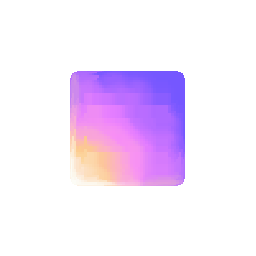
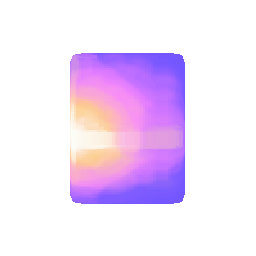
new_from_angle_and_plane bugaa vielä.

Changed region(s): [[0.25, 0.1875, 0.75, 0.8125]]

diff --git a/src/bin/rasterize.rs b/src/bin/rasterize.rs
@@ -123,14 +123,14 @@ impl Rotor3 {
     }
     fn new_from_angle_and_plane(angle: f32, plane: BiVec3) -> Self {
         let sintmp: f32 = angle.sin() / 2.0;
-        let mut r = Rotor3 {
+        Rotor3 {
             s: angle.cos() / 2.0,
             xy: -sintmp * plane.xy,
             xz: -sintmp * plane.xz,
             yz: -sintmp * plane.yz,
-        };
-        r.normalize();
-        return r
+        }
+        //r.normalize();
+        //return r
     }
     fn normalize(&mut self) {
         let lsqr: f32 = self.s * self.s + 
@@ -195,11 +195,11 @@ fn main () {
     // rotate
     let mut rotated_vertices = Vec::new();
     for vert in &vertices {
-        let v1 = Vertex::new_with_xyz(0.0, 1.0, 0.0);
-        let v2 = Vertex::new_with_xyz(0.0, 0.0, 1.0);
-        //let rotor = Rotor3::new_from_vert_to_vert(v1, v2);
-        let bv: BiVec3 = outer3(&v1,&v2);
-        let rotor = Rotor3::new_from_angle_and_plane(45f32 * (PI/180f32), bv);
+        let v1 = Vertex::new_with_xyz(0.0, 0.707, 0.0);
+        let v2 = Vertex::new_with_xyz(0.0, 0.0, -0.707);
+        let rotor = Rotor3::new_from_vert_to_vert(v1, v2);
+        //let plane: BiVec3 = outer3(&v1,&v2);
+        //let rotor = Rotor3::new_from_angle_and_plane(45.0f32 * (PI/180.0f32), plane);
         let rotated_vert: Vertex = rotor.rotate(&vert);
         rotated_vertices.push( rotated_vert );
     }
